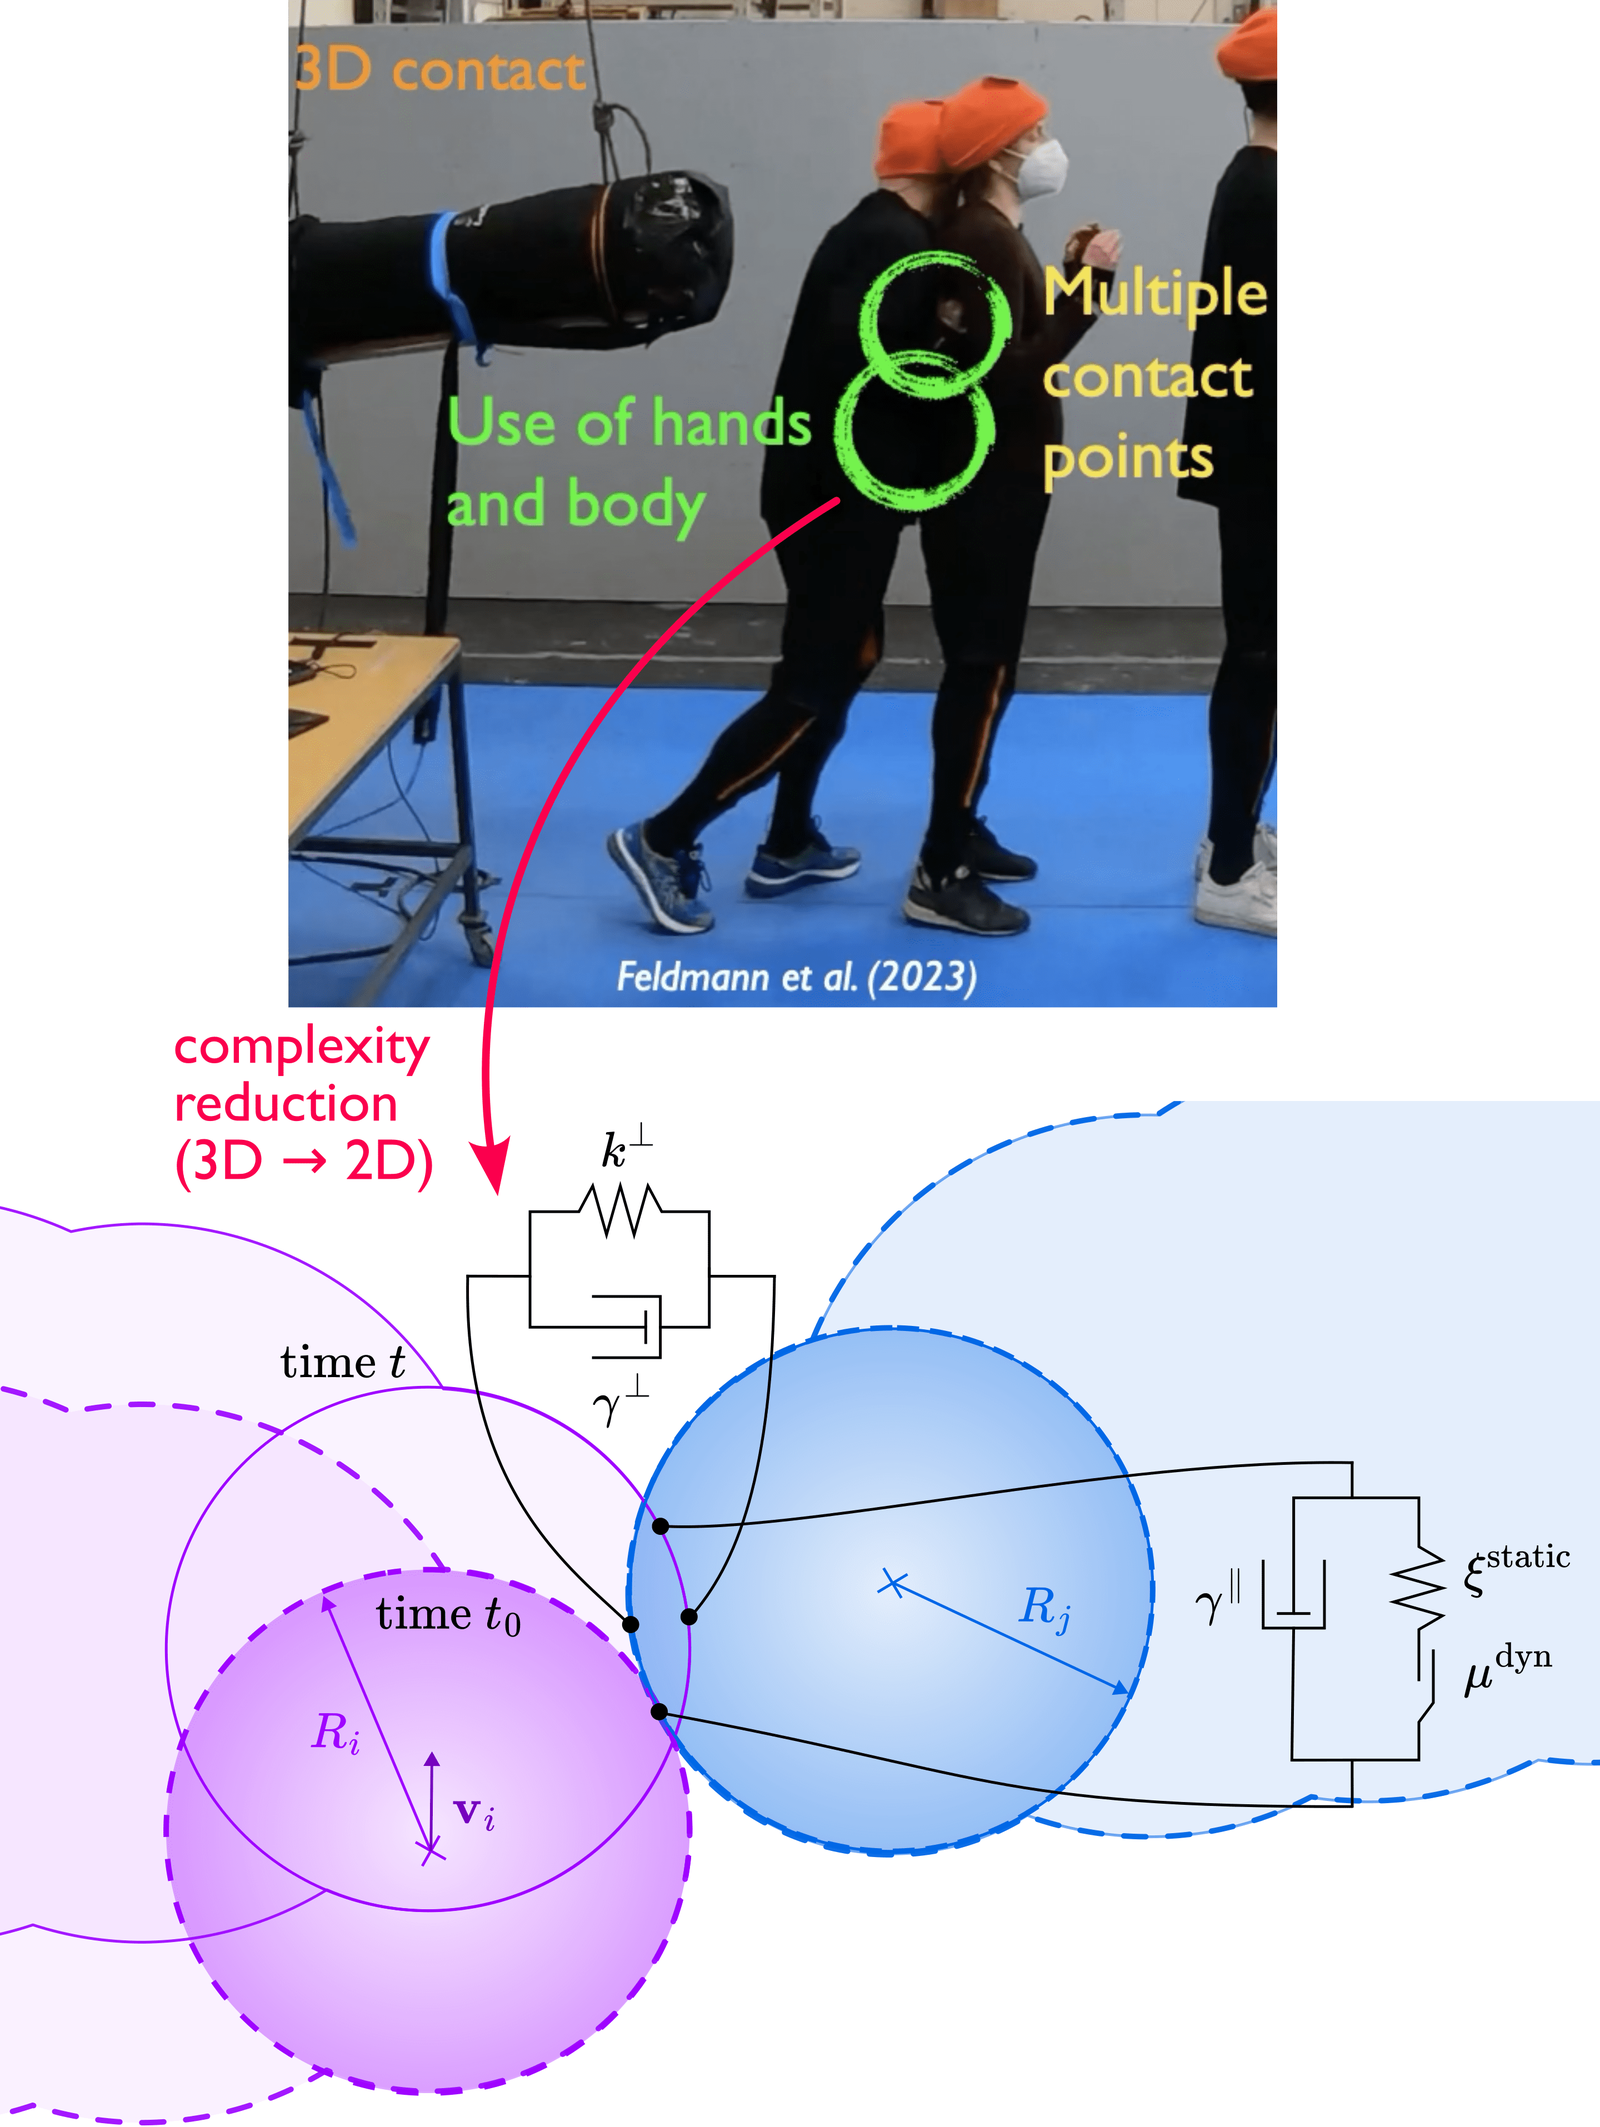
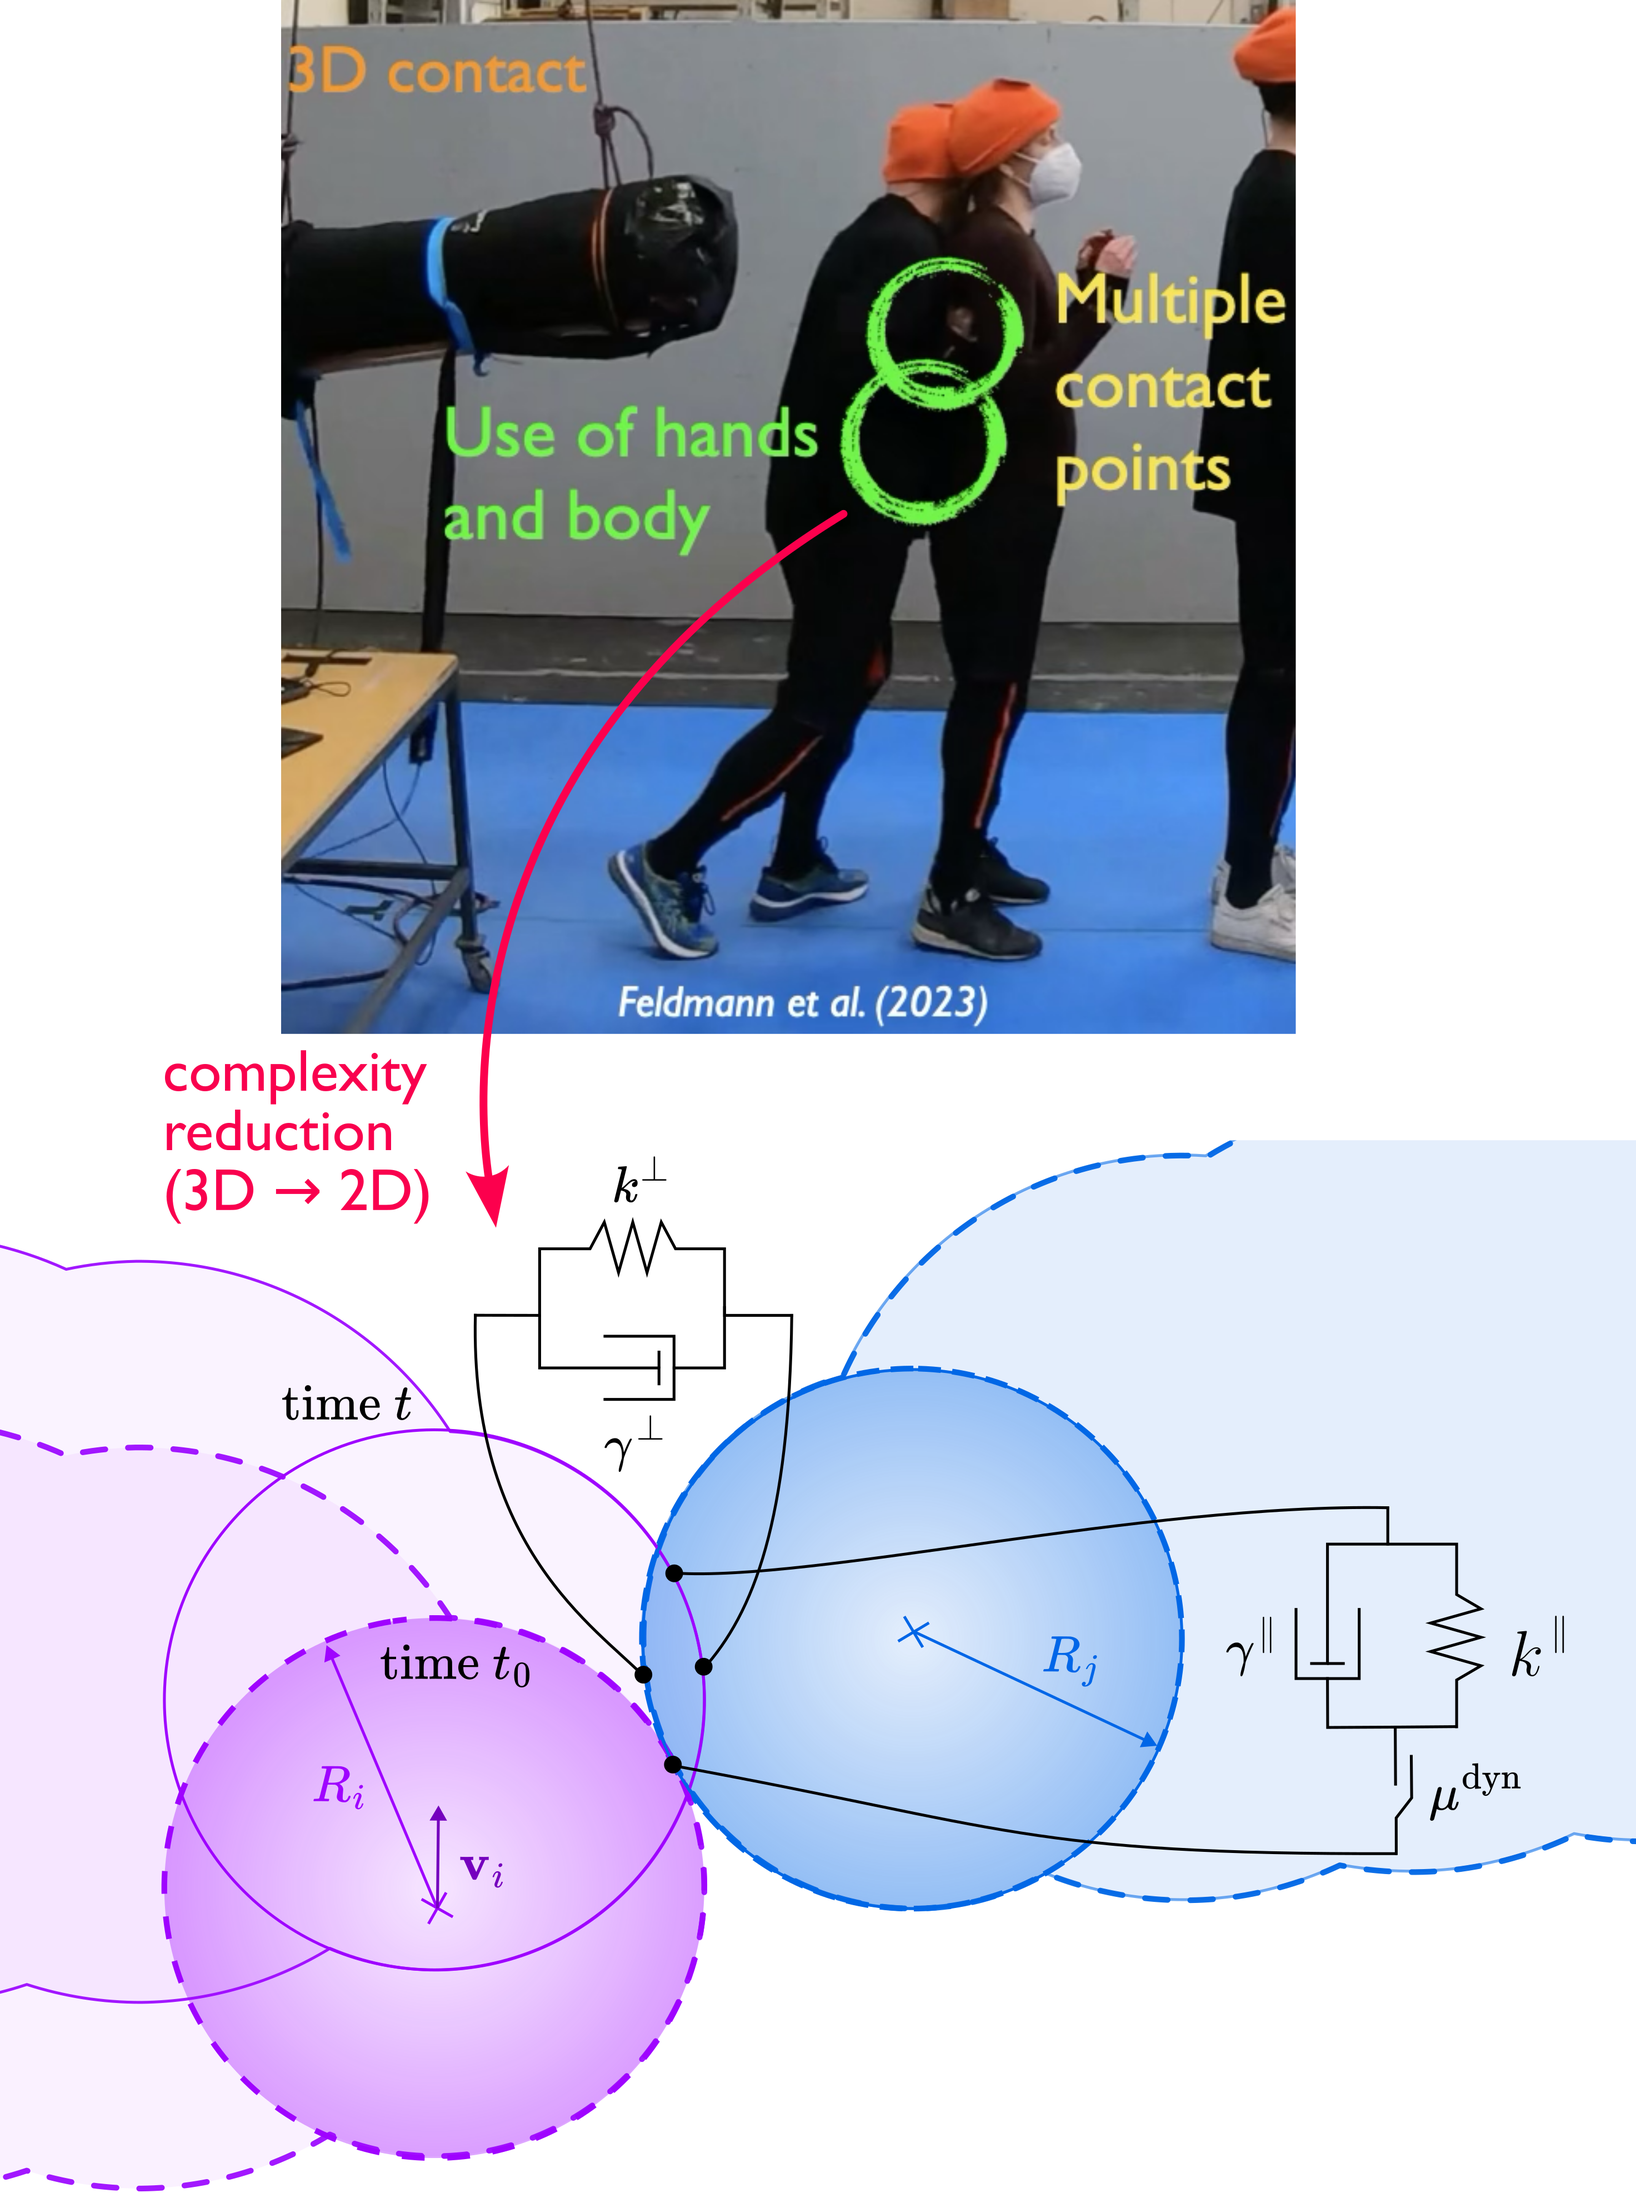
improve about tab and correct the picture of the mechanical contact with springs

diff --git a/src/streamlit_app/app/documentation.py b/src/streamlit_app/app/documentation.py
@@ -37,6 +37,20 @@ def about() -> None:
     current_file_path = Path(__file__)
     ROOT_DIR = current_file_path.parent.parent.parent.parent.absolute()
     st.markdown(f"## Overview of the {cst_app.PROJECT_NAME} project")
+    st.markdown("""
+        The software release dubbed LEMON consists of:
+
+        1. **This online platform**
+        [https://crowdmecha.streamlit.app/](https://crowdmecha.streamlit.app/) to generate and visualise individual pedestrians
+        (whose shapes are compatible with anthropometric data) or crowds.
+
+        2. **A C++ library**
+        to compute mechanical contact forces in two dimensions and then evolve the crowd according to Newton's equation of motion.
+
+        3. **A Python interface**
+        to import anthropometric data, generate and visualise crowds, and simulate their dynamics via simple calls to the C++ library.
+        """)
+
     visible_human_proj_url = "https://www.nlm.nih.gov/research/visible/visible_human.html"
     ANSURII_url = "https://ph.health.mil/topics/workplacehealth/ergo/Pages/Anthropometric-Database.aspx"
     granular_material_url = "https://doi.org/10.1016/j.cpc.2025.109524"
